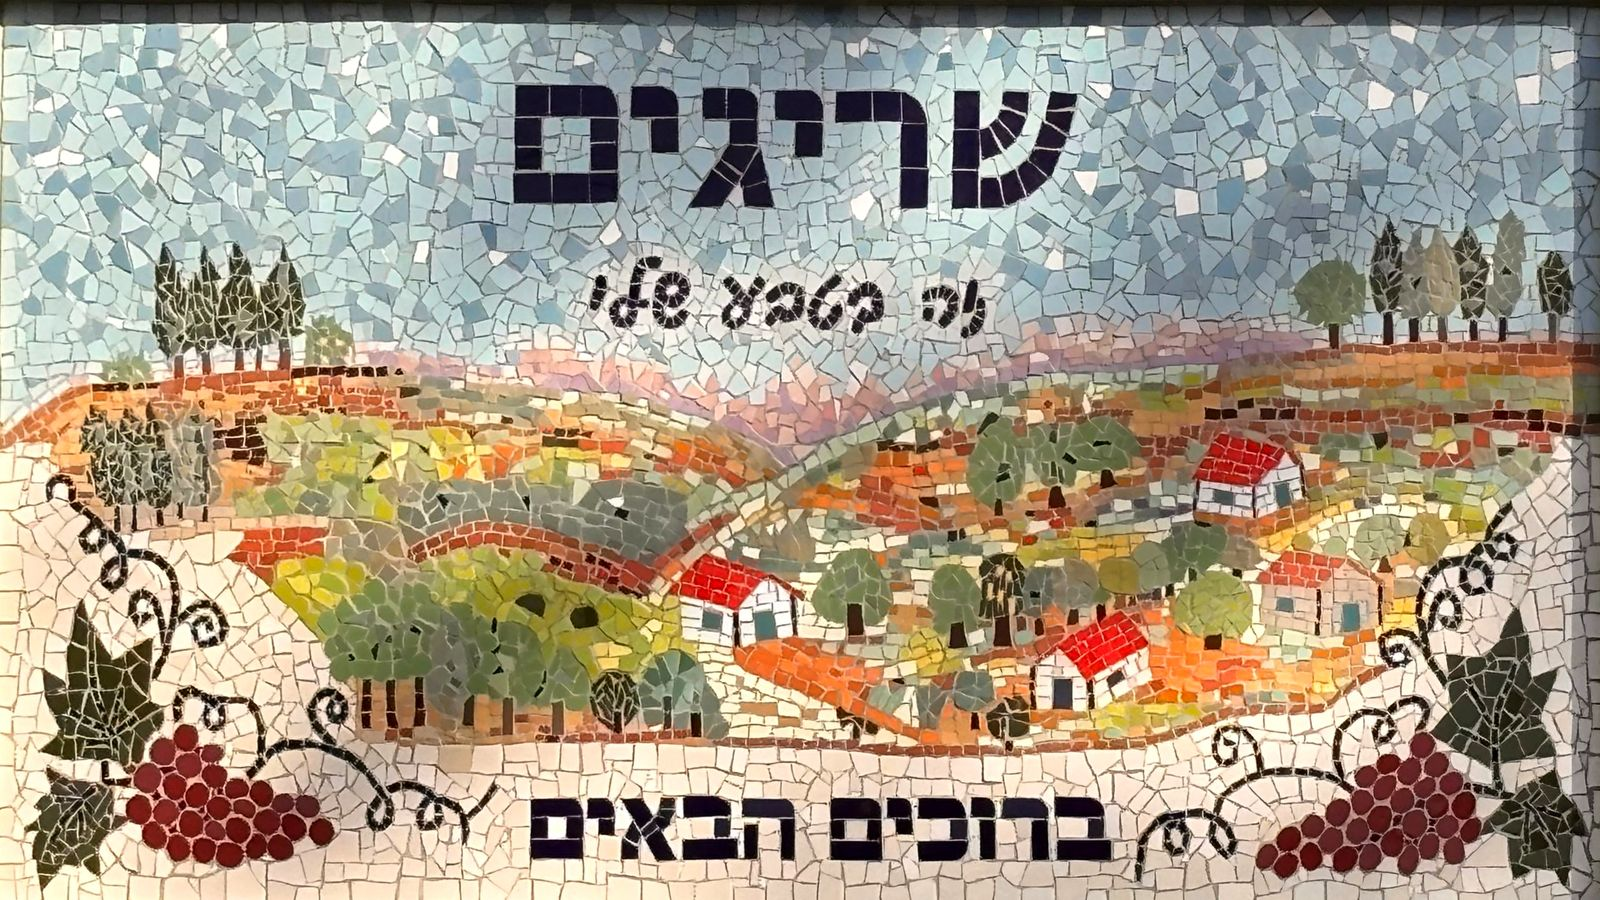
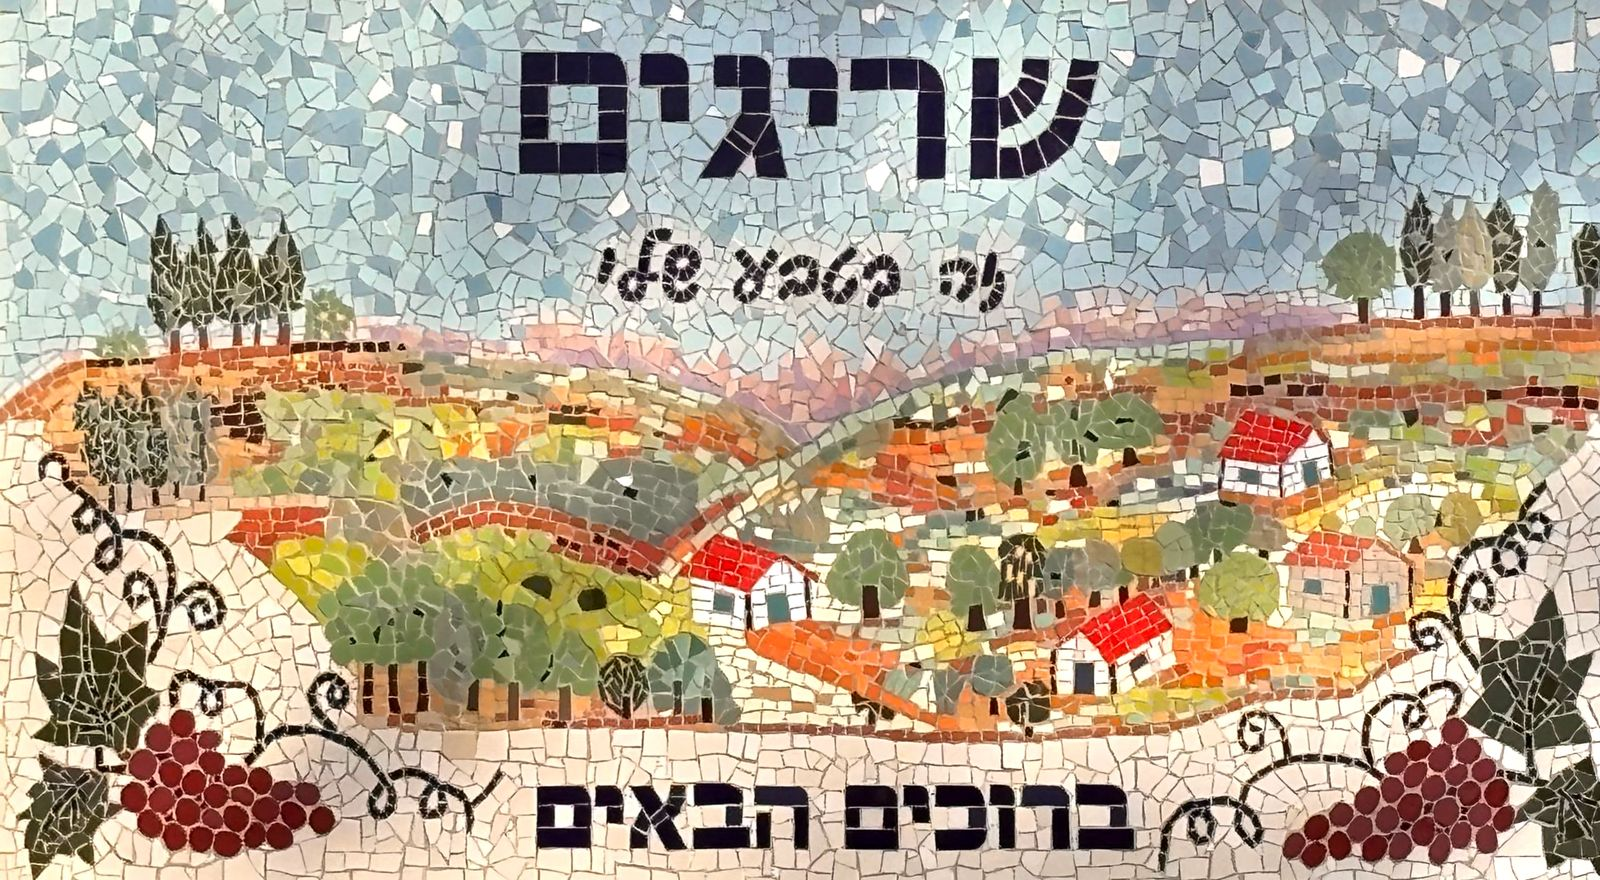
שלט: הסרת הצל מהצילום ואיזון התאורה
Claude-Session: https://claude.ai/code/session_01854d2AuuKZxnyBMSo3Tpxc

diff --git a/index.html b/index.html
@@ -369,7 +369,7 @@ ul.rules li::before{border-radius:2px;transform:rotate(12deg);background:var(--g
   <div id="intro">
     <div class="clockrow"><div class="clock" id="clock" aria-live="polite"></div></div>
     <div class="leadrow">
-    <figure class="sign"><img src="mosaic.jpg" alt="שלט הפסיפס בכניסה לשריגים: שריגים, זה בטבע שלי, ברוכים הבאים" width="1600" height="900"></figure>
+    <figure class="sign"><img src="mosaic.jpg" alt="שלט הפסיפס בכניסה לשריגים: שריגים, זה בטבע שלי, ברוכים הבאים" width="1600" height="880"></figure>
     <div class="hero">
       <div>
       <h1 id="heroTitle">כל מה שצריך לדעת, במקום אחד</h1>
